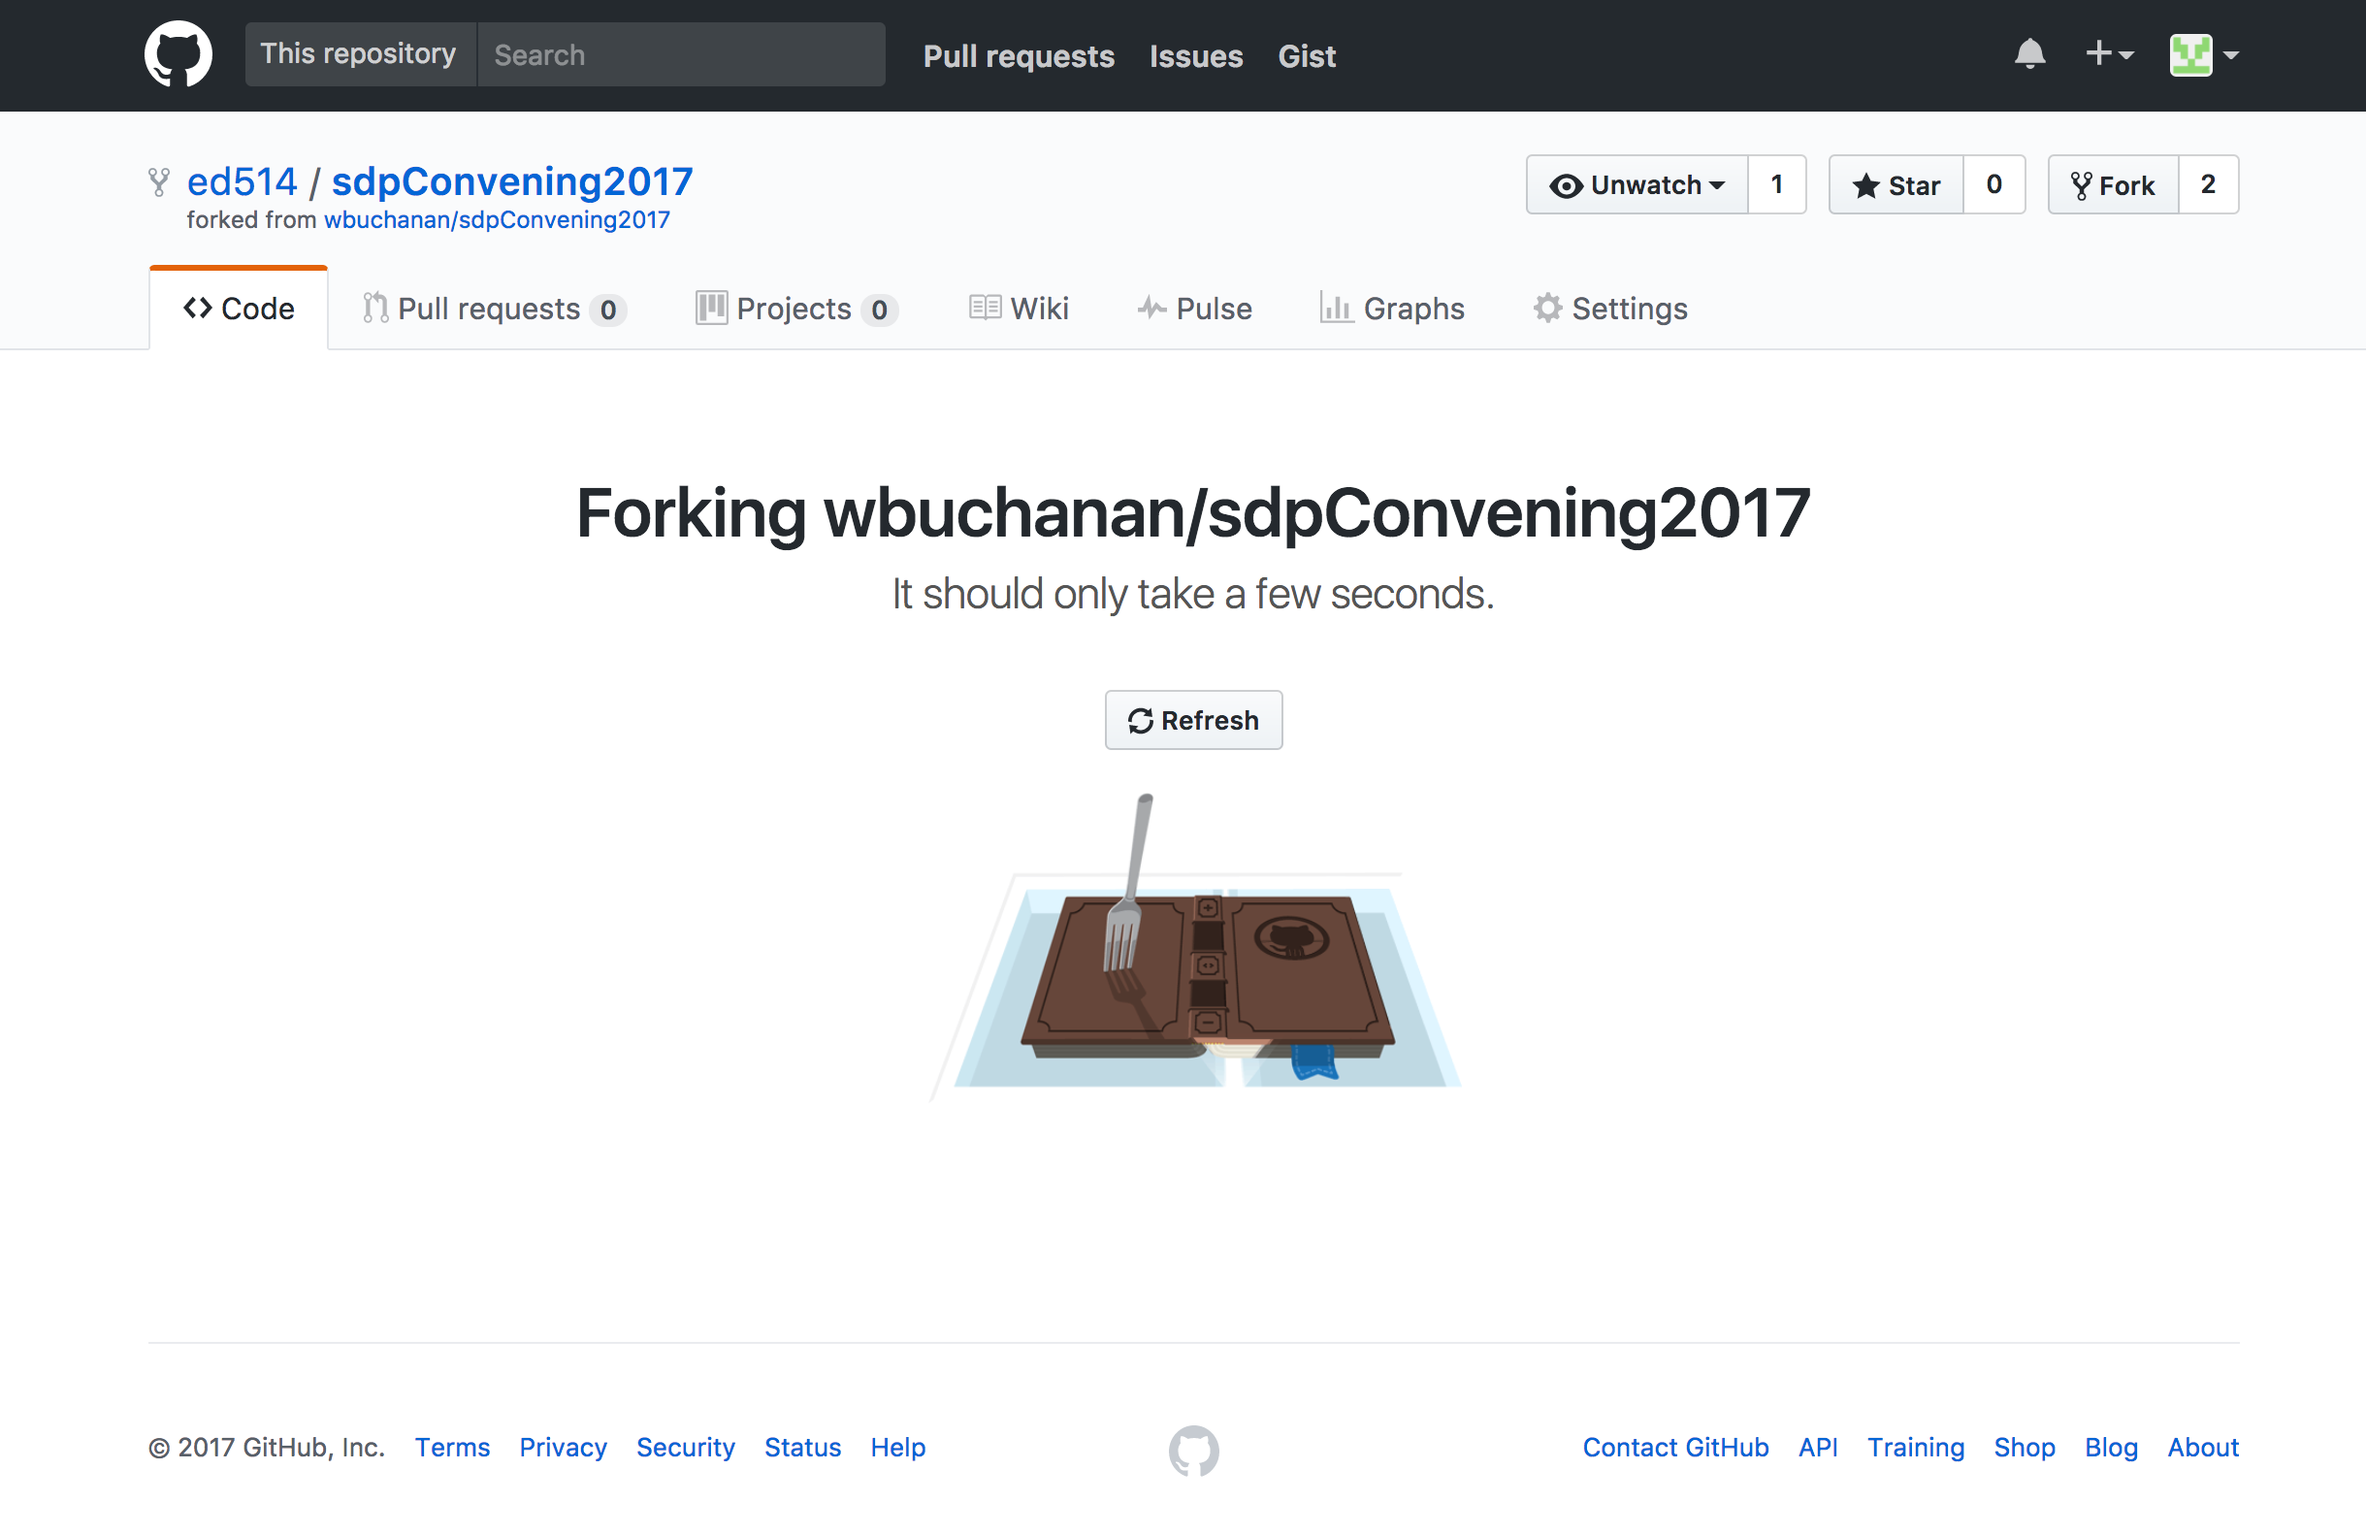
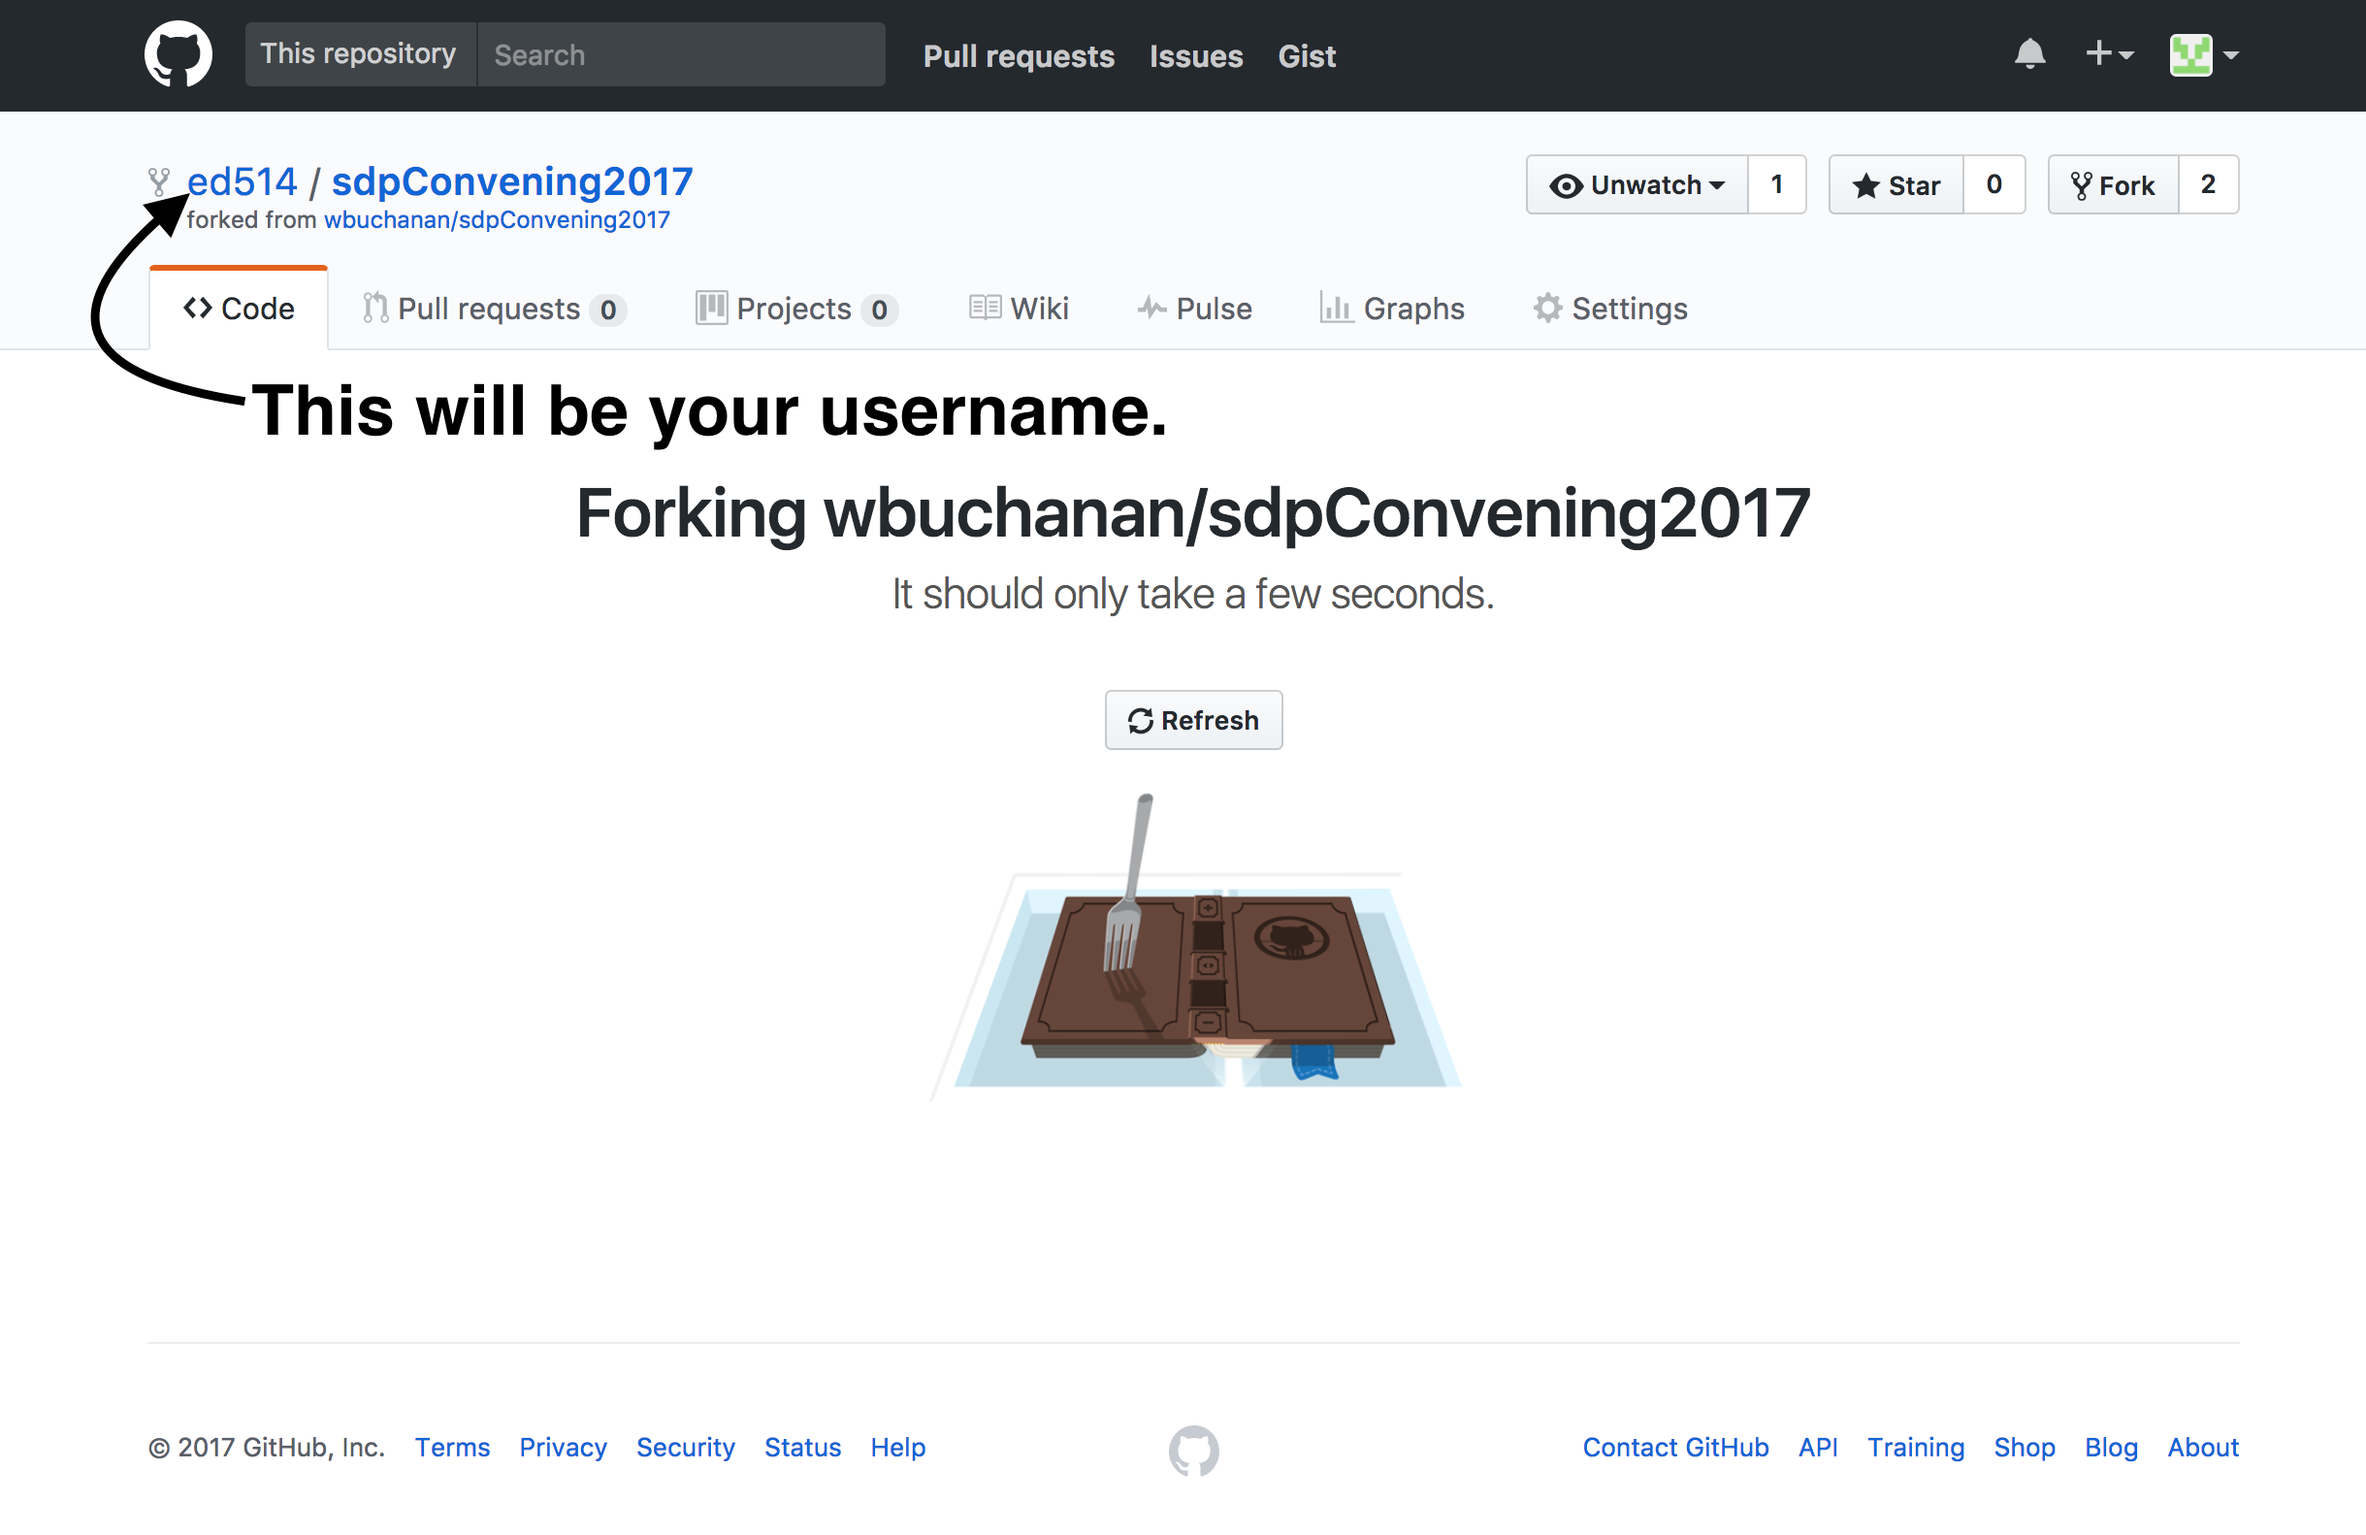
Added Annotations and Fix Broken Link
First screen shot image had a broken link due to unbalanced parentheses.  Also added annotations to all of the screen shots to make it more explicit where and what to click on.

Changed region(s): [[0.0623, 0.2478, 0.4986, 0.3097], [0.0312, 0.1549, 0.0623, 0.2478], [0.0623, 0.1239, 0.0935, 0.1549]]

diff --git a/prework.md b/prework.md
@@ -1,60 +1,89 @@
-# Session Pre Work
-[Git](https://git-scm.com) definitely has some challenges associated with it, but we want to make sure that you don't have to deal with those challenges at convening as much as possible.  And the best part of all...we have swag for everyone who completes the prework.  
+# <a name="top"></a>  Session Pre Work
+We want to avoid set up delays at convening as much as you do and have put together instructions to help you get [Git](https://git-scm.com) and [GitHub](https://github.com) setup on your machine.  We also have a section at the bottom of this page that explains how you can get help from us before the session.
 
-## What you need to do
-1. The first thing you should do is make sure you've installed [Git](https://git-scm.com) on your machine.  We've provided links for the installers for several different platforms below so you won't even need to search for things.  Just click on the link that matches your operating system and processor type below and let the fun begin:
+* [Git Installation](#installInstructions)
+* [GitHub Setup](#github)
+* [HELP ME!!!](#helpme)
+
+
+## <a name="installInstructions"></a>  Git Installation
+
+__1. The first thing you should do is make sure you've installed [Git](https://git-scm.com) on your machine.  We've provided links for the installers for several different platforms below so you won't even need to search for things.  Just click on the link that matches your operating system and processor type below:__
   * [Windows 32-bit](https://github.com/git-for-windows/git/releases/download/v2.12.2.windows.2/Git-2.12.2.2-32-bit.exe)
   * [Windows 64-bit](https://github.com/git-for-windows/git/releases/download/v2.12.2.windows.2/Git-2.12.2.2-64-bit.exe)
-  * [Mac OSX](http://sourceforge.net/projects/git-osx-installer/files/git-2.10.1-intel-universal-mavericks.dmg/download?use_mirror=autoselect)
+  * If you are working with __OSX__ you have a couple of options:
+    a. The binary from the git website for [Mac OSX](http://sourceforge.net/projects/git-osx-installer/files/git-2.10.1-intel-universal-mavericks.dmg/download?use_mirror=autoselect)
+    b. If you have [Homebrew](https://brew.sh) installed you can use `brew install git` from the command line terminal to install and manage with [Homebrew](https://brew.sh)
   * If you are working on a Linux or Unix system we've copied the commands you would need below:
 
-    __Debian/Ubuntu__ - `apt-get install git`
+    _Debian/Ubuntu_ - `apt-get install git`
 
-    __Fedora (<= version 21)__ - `yum install git`
+    _Fedora (<= version 21)_ - `yum install git`
 
-    __Fedora (>= version 22)__ - `dnf install git`
+    _Fedora (>= version 22)_ - `dnf install git`
 
-    __Gentoo__ - `emerge --ask --verbose dev-vcs/git`
+    _Gentoo_ - `emerge --ask --verbose dev-vcs/git`
 
-    __Arch Linux__ - `pacman -S git`
+    _Arch Linux_ - `pacman -S git`
 
-    __openSUSE__ - `zypper install git`
+    _openSUSE_ - `zypper install git`
 
-    __Mageia__ - `urpmi git`
+    _Mageia_ - `urpmi git`
 
-    __FreeBSD__ - `pkg install git`
+    _FreeBSD_ - `pkg install git`
 
-    __Solaris v 9-11 (requires [OpenCSW](https://www.opencsw.org/))__ - `pkgutil -i git`
+    _Solaris v 9-11 (requires [OpenCSW](https://www.opencsw.org/))_ - `pkgutil -i git`
 
-    __Solaris 11 Express__ - `pkg install developer/versioning/git`
+    _Solaris 11 Express_ - `pkg install developer/versioning/git`
 
-    __OpenBSD__ - `pkg_add git`
+    _OpenBSD_ - `pkg_add git`
 
-    __Alpine__ - `apk add git`
+    _Alpine_ - `apk add git`
 
-2. Follow this link to create a [GitHub Account](https://github.com/join?source=header-home)
-3. Once you've created and verified your account [click here](https://github.com/wbuchanan/sdpConvening2017/tree/prework) to get back to this page.
-4. Fork the repository : 
+__2. If you've downloaded one of the installers, run the installer and follow the prompts on the screen.__
 
-![Fork the repository](https://github.com/wbuchanan/sdpConvening2017/blob/prework/img/forkThisRepo.png]
+__3. If you're a Windows user, you'll definitely want to make sure [Git BASH](https://git-for-windows.github.io/) gets installed and may want to allow the installer to add some *nix flavored commands to `cmd.exe` to avoid having to remember *nix commands vs DOS commands.
 
-_It will look like this if it is working_:
+
+## <a name="github"></a>  GitHub Setup
+
+__1. Follow this link to create a [GitHub Account](https://github.com/join?source=header-home)__
+
+__2. There will be an option to use [two factor authentication](https://github.com/blog/1614-two-factor-authentication).  *We recommend setting this up from the beginning since it adds additional security to your account.*__
+
+__3. Once you've created and verified your account [click here](https://github.com/wbuchanan/sdpConvening2017/tree/prework) to get back to this page.__
+
+__4. Fork the repository : __
+
+
+![Fork the repository](https://github.com/wbuchanan/sdpConvening2017/blob/prework/img/forkThisRepo.png)
+
+
+__It will look like this if it is working :__
+
 
 ![Fork Working](https://github.com/wbuchanan/sdpConvening2017/blob/prework/img/forkWorking.png)
 
-5. If you're not on the prework branch already, you'll want to navigate to the pre-work branch: 
+
+__5. If you're not on the prework branch already, you'll want to navigate to the pre-work branch: __
+
 
 ![Branch Navigation](https://github.com/wbuchanan/sdpConvening2017/blob/prework/img/branchNavigation.png)
 
-6. Next, click on the link for the file named `updateThisFile.md` in your fork of the repository.
+
+__6. Next, click on the link for the file named `updateThisFile.md` in your fork of the repository.__
+
 
 ![Prework File](https://github.com/wbuchanan/sdpConvening2017/blob/prework/img/preworkFile.png)
 
-7. Click on the pencil icon to edit the file : 
+
+__7. Click on the pencil icon to edit the file : __
+
 
 ![Edit File](https://github.com/wbuchanan/sdpConvening2017/blob/prework/img/editFile.png)
 
-8. Modify this file to let us know that you've completed the pre-work (there's only one more step to complete and it is pretty easy).  Find your name in the completed list.  It will look something like this when you are viewing the file to edit it:
+
+__8. Modify this file to let us know that you've completed the pre-work (there's only one more step to complete and it is pretty easy).  Find your name in the completed list.  It will look something like this when you are viewing the file to edit it:__
 
 ```
 - [ ] Nathan Trenholm
@@ -63,7 +92,8 @@ _It will look like this if it is working_:
 - [ ] Billy Buchanan
 ```
 
-To indicate that you've made it this far and to see how [Git](https://git-scm.com) can help you keep track of things, you'll put the letter `x` between the square brackets next to your name like this:
+__To indicate that you've made it this far and to see how [Git](https://git-scm.com) can help you keep track of things, you'll put the letter `x` between the square brackets next to your name like this:__
+
 
 ```
 - [ ] Nathan Trenholm
@@ -72,29 +102,39 @@ To indicate that you've made it this far and to see how [Git](https://git-scm.co
 - [x] Billy Buchanan
 ```
 
-10. Add a commit message with your name in the subject line and a message letting us know how easy - _or not_ - it was to complete the pre-work and commit the change to your repository : 
+__10. Add a commit message with your name in the subject line and a message letting us know how easy - _or not_ - it was to complete the pre-work and commit the change to your repository : __
+
 
 ![Commit Button and Message](https://github.com/wbuchanan/sdpConvening2017/blob/prework/img/commitChanges.png)
 
-_If you've been successful up to this point you'll see the file that you just edited with the changes saved:_
+
+__If you've been successful up to this point you'll see the file that you just edited with the changes saved:__
+
 
 ![Post Commit File View](https://github.com/wbuchanan/sdpConvening2017/blob/prework/img/commitedChanges.png)
 
 
-11. This is the last step...click the button to submit a pull request : 
+__11. This is the last step...click the button to submit a pull request : __
+
 
 ![Pull Request Button](https://github.com/wbuchanan/sdpConvening2017/blob/prework/img/pullRequestButton.png) 
 
-and use this phrase for the message: `I can haz all the stickerz!`.
+
+__and use this phrase for the message: `I can haz all the stickerz!`.__
+
 
 ![Pull Request Message](https://github.com/wbuchanan/sdpConvening2017/blob/prework/img/pullRequestMessage.png)
 
-12. You're done.  __Congrats!__  You've installed [Git](https://git-scm.com), created a [GitHub](https://github.com) account, forked a repository, modified the code base, commited the change, and submitted a pull request.  
+
+__12. You're done.  Congrats!  You've installed [Git](https://git-scm.com), created a [GitHub](https://github.com) account, forked a repository, modified the code base, commited the change, and submitted a pull request.__  
+
 
 ![SUCCESS](https://github.com/wbuchanan/sdpConvening2017/blob/prework/img/success.png)
 
 
-## HELP ME!!!
-Some of you may have trouble completing the pre-work.  It's ok and with the possible exception of [Linus Torvalds](https://en.wikipedia.org/wiki/Linus_Torvalds) everyone has run into some difficulty with [Git](https://git-scm.com) at some point.  But, you're not alone and we're here to help.  If this happens to you, you can click on [this link](https://github.com/wbuchanan/sdpConvening2017/issues/new) to ask us for help (and the best part is that you'll learn about issues at the same time).  Our goal is to make sure that we can make the most of the session time, so we want to help everyone get set up with any/every thing you'll need to be up and running before convening.
+## <a name="helpme"></a>  HELP ME!!!
+You may have trouble getting things set up and it is ok.  With the possible exception of [Linus Torvalds](https://en.wikipedia.org/wiki/Linus_Torvalds), everyone encounters challenges with [Git](https://git-scm.com) at some point.  So you're not alone in this and we are all here to help get you off on the right foot.
+
+If you run into any issues with the prework [click here](https://github.com/wbuchanan/sdpConvening2017/issues/new) to ask us for help.  
 
 
